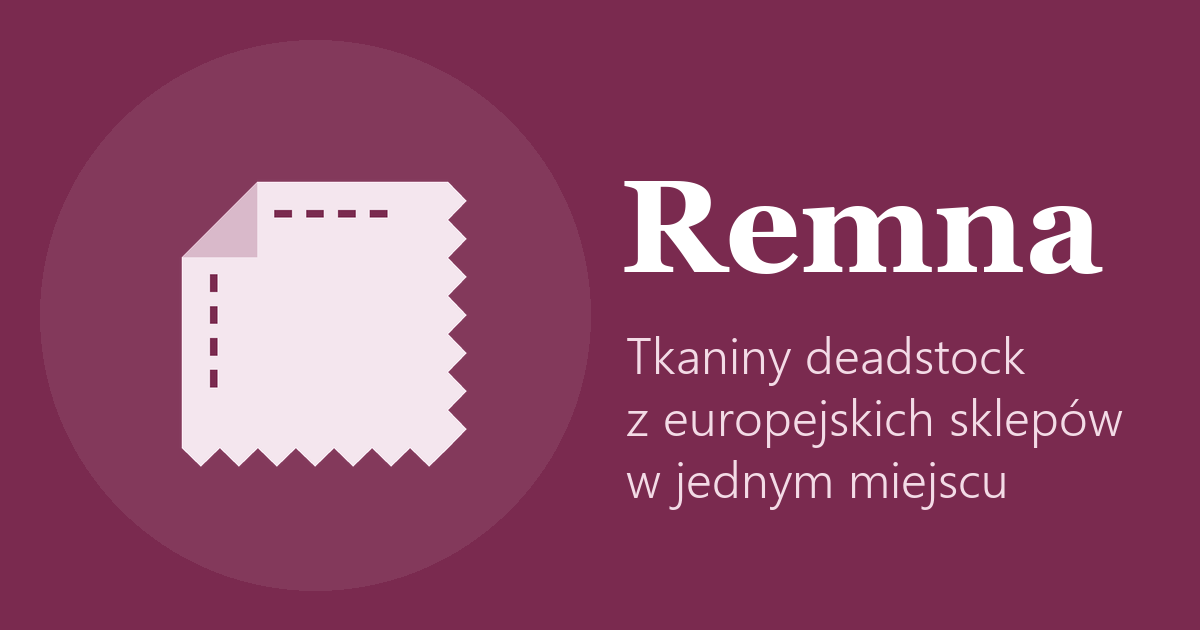
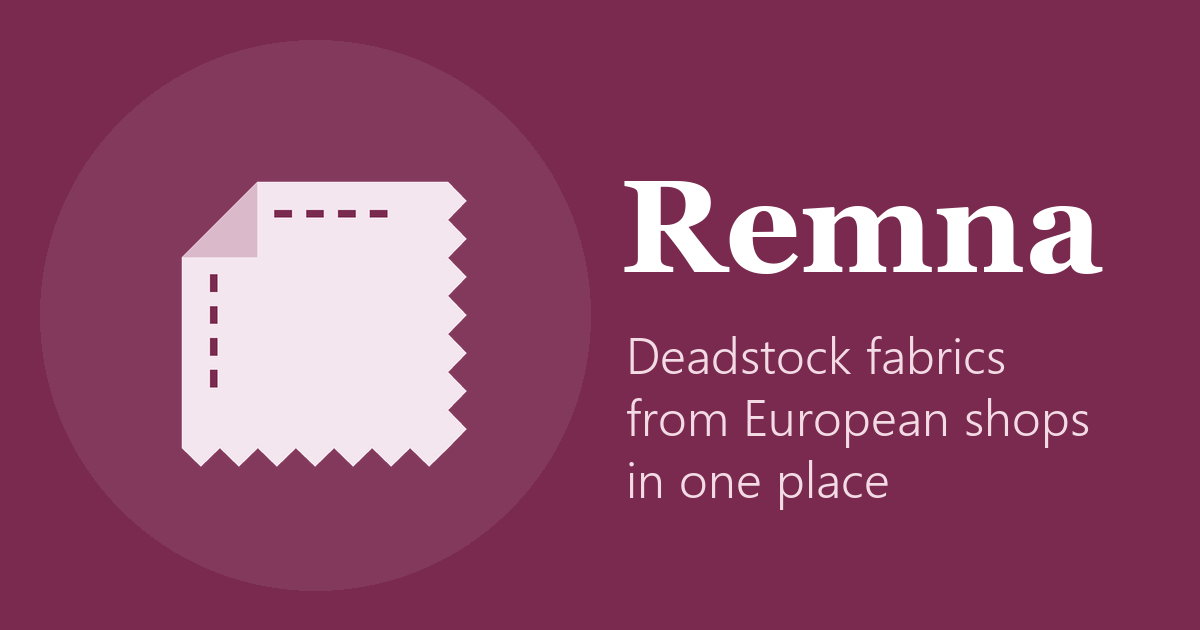
Remna: wersja webowa

Changed region(s): [[0.5242, 0.6333, 0.9558, 0.7238], [0.5242, 0.7238, 0.8633, 0.8143], [0.5242, 0.5429, 0.8633, 0.6032]]

diff --git a/remna/app/index.html b/remna/app/index.html
@@ -7,19 +7,20 @@
   <meta name="viewport" content="width=device-width, initial-scale=1">
   <meta name="theme-color" content="#f3f4f6" media="(prefers-color-scheme: light)">
   <meta name="theme-color" content="#131417" media="(prefers-color-scheme: dark)">
-  <title>Remna – tkaniny deadstock z europejskich sklepów</title>
-  <meta name="description" content="Wyszukiwarka tkanin deadstock z ponad 25 europejskich sklepów: jedwab, wełna, len, bawełna i więcej. Filtry składu, koloru, wzoru i ceny za metr. Kupujesz bezpośrednio w sklepie.">
+  <title>Remna – deadstock fabrics from European shops</title>
+  <meta name="description" content="Search deadstock fabrics from 25+ European shops: silk, wool, linen, cotton and more. Filter by composition, colour, pattern, weight and price per metre. Buy directly from the shop.">
   <!-- Podgląd linku (Facebook, Messenger, WhatsApp, Instagram) -->
   <meta property="og:type" content="website">
   <meta property="og:site_name" content="Remna">
-  <meta property="og:title" content="Remna – tkaniny deadstock z europejskich sklepów">
-  <meta property="og:description" content="Ponad 30 000 tkanin deadstock z 26 sklepów w jednym miejscu. Szukaj po materiale, składzie, kolorze i wzorze.">
+  <meta property="og:title" content="Remna – deadstock fabrics from European shops">
+  <meta property="og:description" content="30,000+ deadstock fabrics from 26 European shops in one place. Search by material, composition, colour and pattern.">
   <meta property="og:url" content="https://aris2497.github.io/remna/app/">
   <meta property="og:image" content="https://aris2497.github.io/remna/app/og.png">
   <meta property="og:image:width" content="1200">
   <meta property="og:image:height" content="630">
-  <meta property="og:image:alt" content="Remna: tkaniny deadstock z europejskich sklepów w jednym miejscu">
-  <meta property="og:locale" content="pl_PL">
+  <meta property="og:image:alt" content="Remna: deadstock fabrics from European shops in one place">
+  <meta property="og:locale" content="en_GB">
+  <meta property="og:locale:alternate" content="pl_PL">
   <meta name="twitter:card" content="summary_large_image">
   <link rel="icon" href="icon.svg" type="image/svg+xml">
   <link rel="apple-touch-icon" href="apple-touch-icon.png">
@@ -29,7 +30,7 @@
   <meta name="mobile-web-app-capable" content="yes">
   <meta name="apple-mobile-web-app-title" content="Remna">
   <meta name="apple-mobile-web-app-status-bar-style" content="default">
-  <link rel="stylesheet" href="styles.css?v=eaaa41f">
+  <link rel="stylesheet" href="styles.css?v=ef2c0ad">
 </head>
 <body>
   <div id="app">
@@ -198,12 +199,12 @@
 
   <div class="toast" id="toast" role="status" hidden></div>
 
-  <script src="config.js?v=eaaa41f"></script>
-  <script src="i18n.js?v=eaaa41f"></script>
-  <script src="i18n-langs.js?v=eaaa41f"></script>
-  <script src="filters.js?v=eaaa41f"></script>
-  <script src="data.js?v=eaaa41f"></script>
-  <script src="native.js?v=eaaa41f"></script>
-  <script src="app.js?v=eaaa41f"></script>
+  <script src="config.js?v=ef2c0ad"></script>
+  <script src="i18n.js?v=ef2c0ad"></script>
+  <script src="i18n-langs.js?v=ef2c0ad"></script>
+  <script src="filters.js?v=ef2c0ad"></script>
+  <script src="data.js?v=ef2c0ad"></script>
+  <script src="native.js?v=ef2c0ad"></script>
+  <script src="app.js?v=ef2c0ad"></script>
 </body>
 </html>

diff --git a/remna/app/app.js b/remna/app/app.js
@@ -81,6 +81,7 @@
   // --- Tłumaczenia statycznego HTML ---------------------------------------------
   function applyI18n() {
     document.documentElement.lang = I.getLang();
+    document.title = 'Remna – ' + t('app.tagline').charAt(0).toLowerCase() + t('app.tagline').slice(1);
     document.querySelectorAll('[data-i18n]').forEach((el) => { el.textContent = t(el.dataset.i18n); });
     document.querySelectorAll('[data-i18n-placeholder]').forEach((el) => { el.placeholder = t(el.dataset.i18nPlaceholder); });
     document.querySelectorAll('[data-i18n-aria]').forEach((el) => { el.setAttribute('aria-label', t(el.dataset.i18nAria)); });
